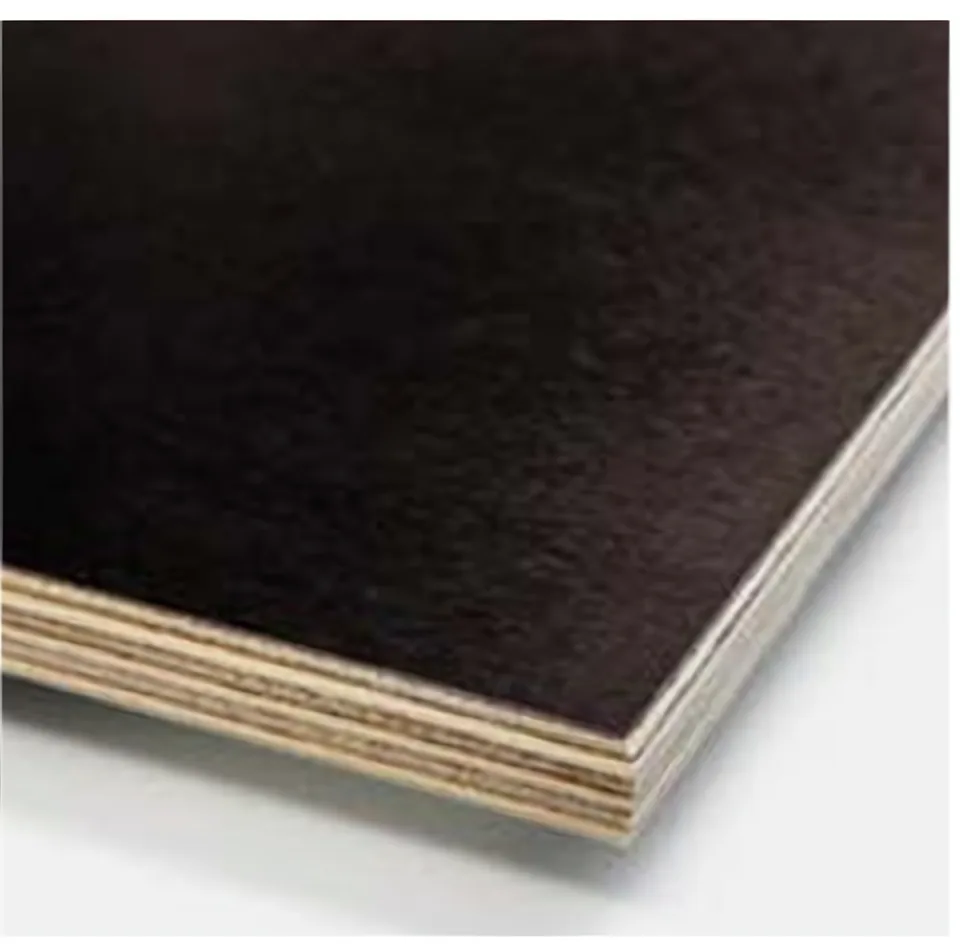
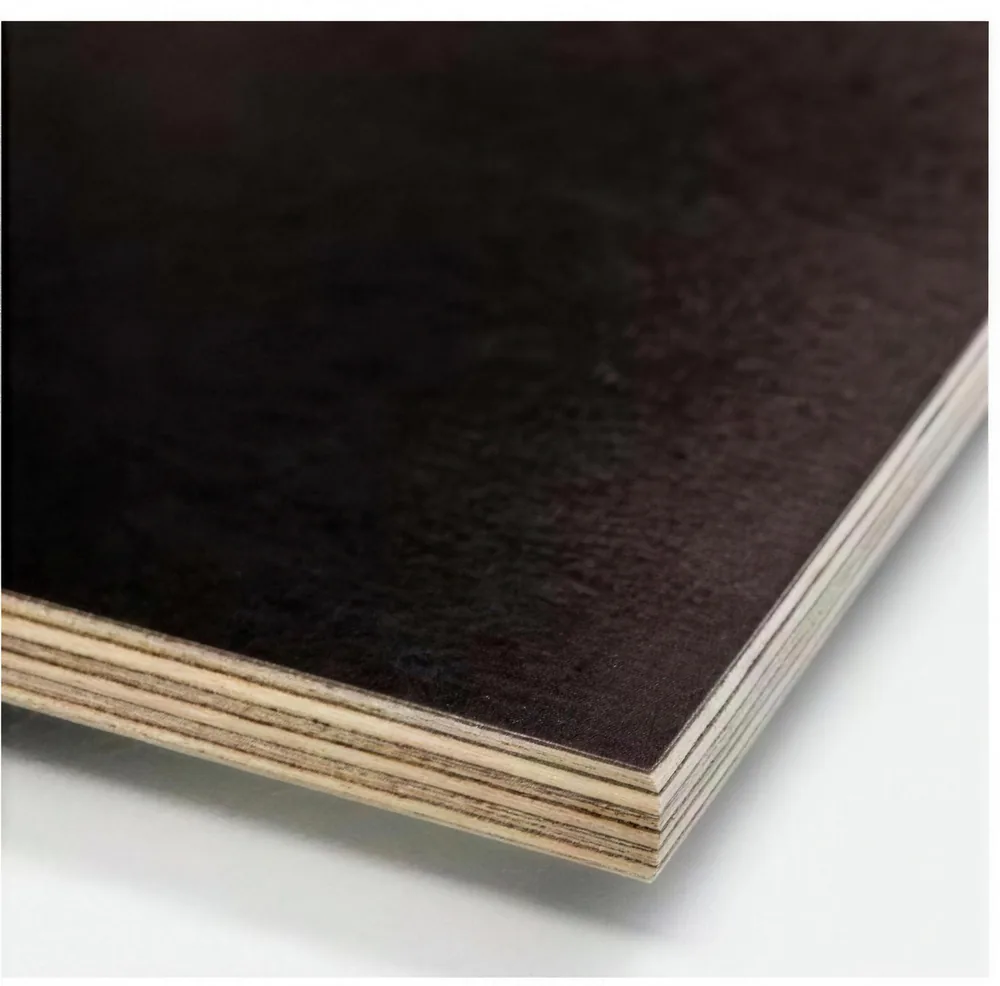
FILM/FILM rétegelt lemez: fotó generatív MI-s nagyítással (élesebb) [CF-Pages-Skip]
Claude-Session: https://claude.ai/code/session_01GqcGcrqDWYvNfyrVUkczEM

diff --git a/scripts/termekadatok/retegelt_kepek.py b/scripts/termekadatok/retegelt_kepek.py
@@ -4,7 +4,7 @@ minden érintett termék első képe lesz, a meglévő képek (3D renderek) utá
 - HEXA (hexa mintás, fenolos): a Quadris által küldött 3 fotó (a 2. zöld háttere fehérre cserélve); a korábbi
   kezdőkép (barna render) és a barna 3D renderek a Quadris kérésére kikerültek
 - fenolos (nem HEXA): a Quadris által küldött fotó (generatív MI-vel nagyítva, Higgsfield)
-- film-film: a Quadris által küldött fotó (MI-vel 4x nagyítva)
+- film-film: a Quadris által küldött fotó (generatív MI-vel nagyítva, Higgsfield)
 - natúr: a Quadris által küldött fotó (generatív MI-vel nagyítva, Higgsfield)
 
 Használat: python3 scripts/termekadatok/retegelt_kepek.py   (utána kep_sorrend.py)
